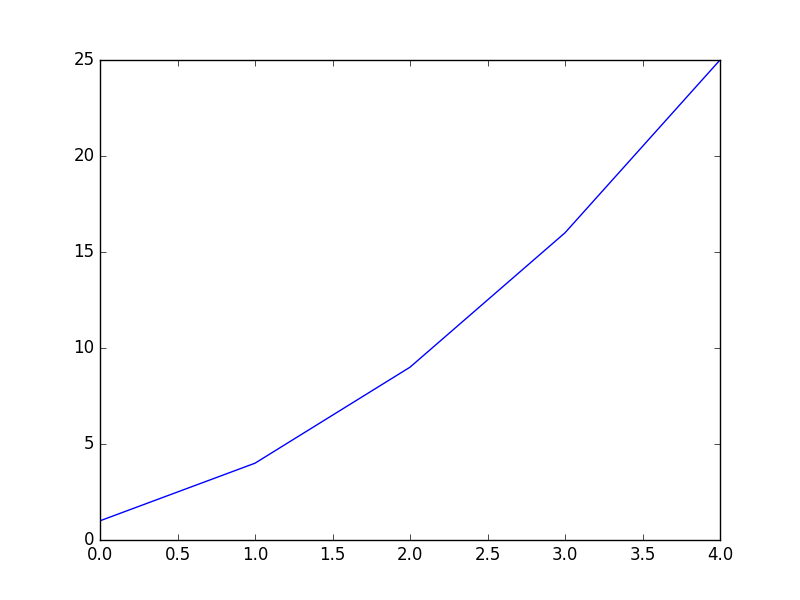
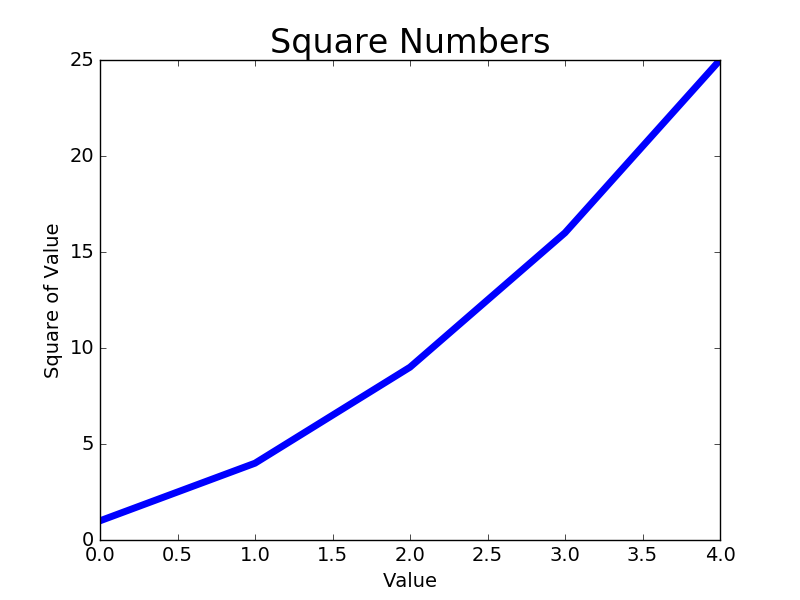
change labeltype and graph thickness

diff --git a/mpl_squares.py b/mpl_squares.py
@@ -1,5 +1,14 @@
 import matplotlib.pyplot as plt
 
 squares =  [1, 4, 9, 16, 25]
-plt.plot(squares)
+plt.plot(squares, linewidth=5)
+
+#set chart title and labels on axes
+plt.title("Square Numbers", fontsize=24)
+plt.xlabel("Value", fontsize=14)
+plt.ylabel("Square of Value", fontsize=14)
+
+#size of tick labels
+plt.tick_params(axis='both', labelsize=14)
+
 plt.show()
